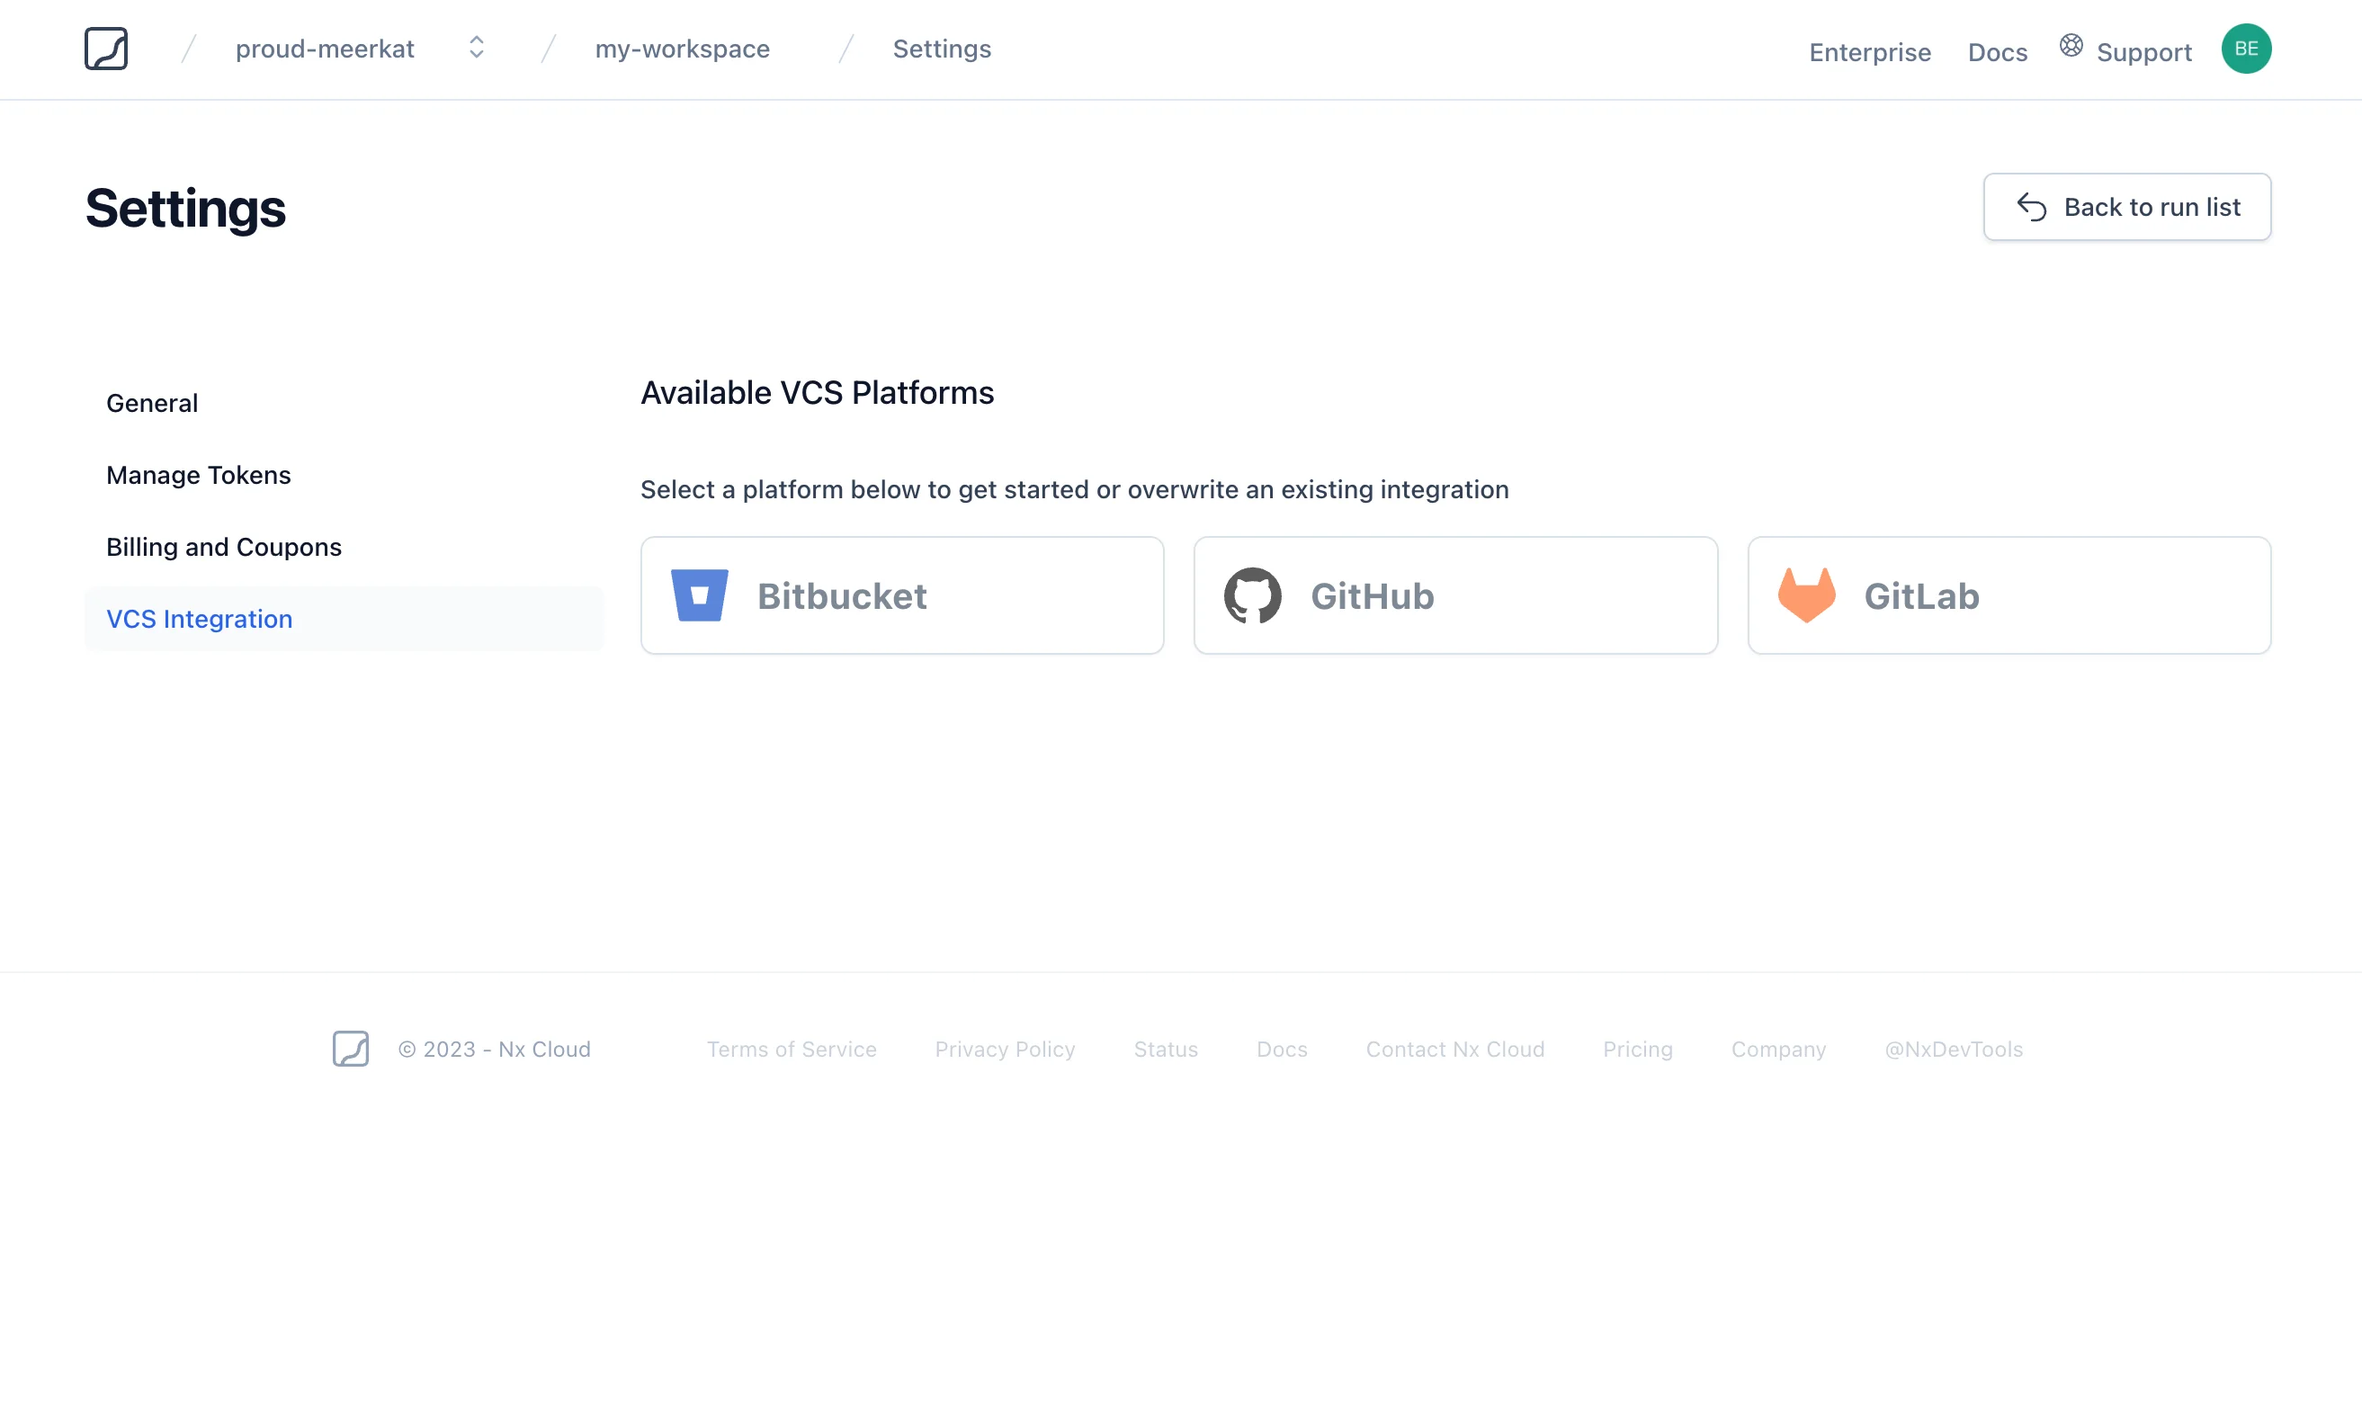
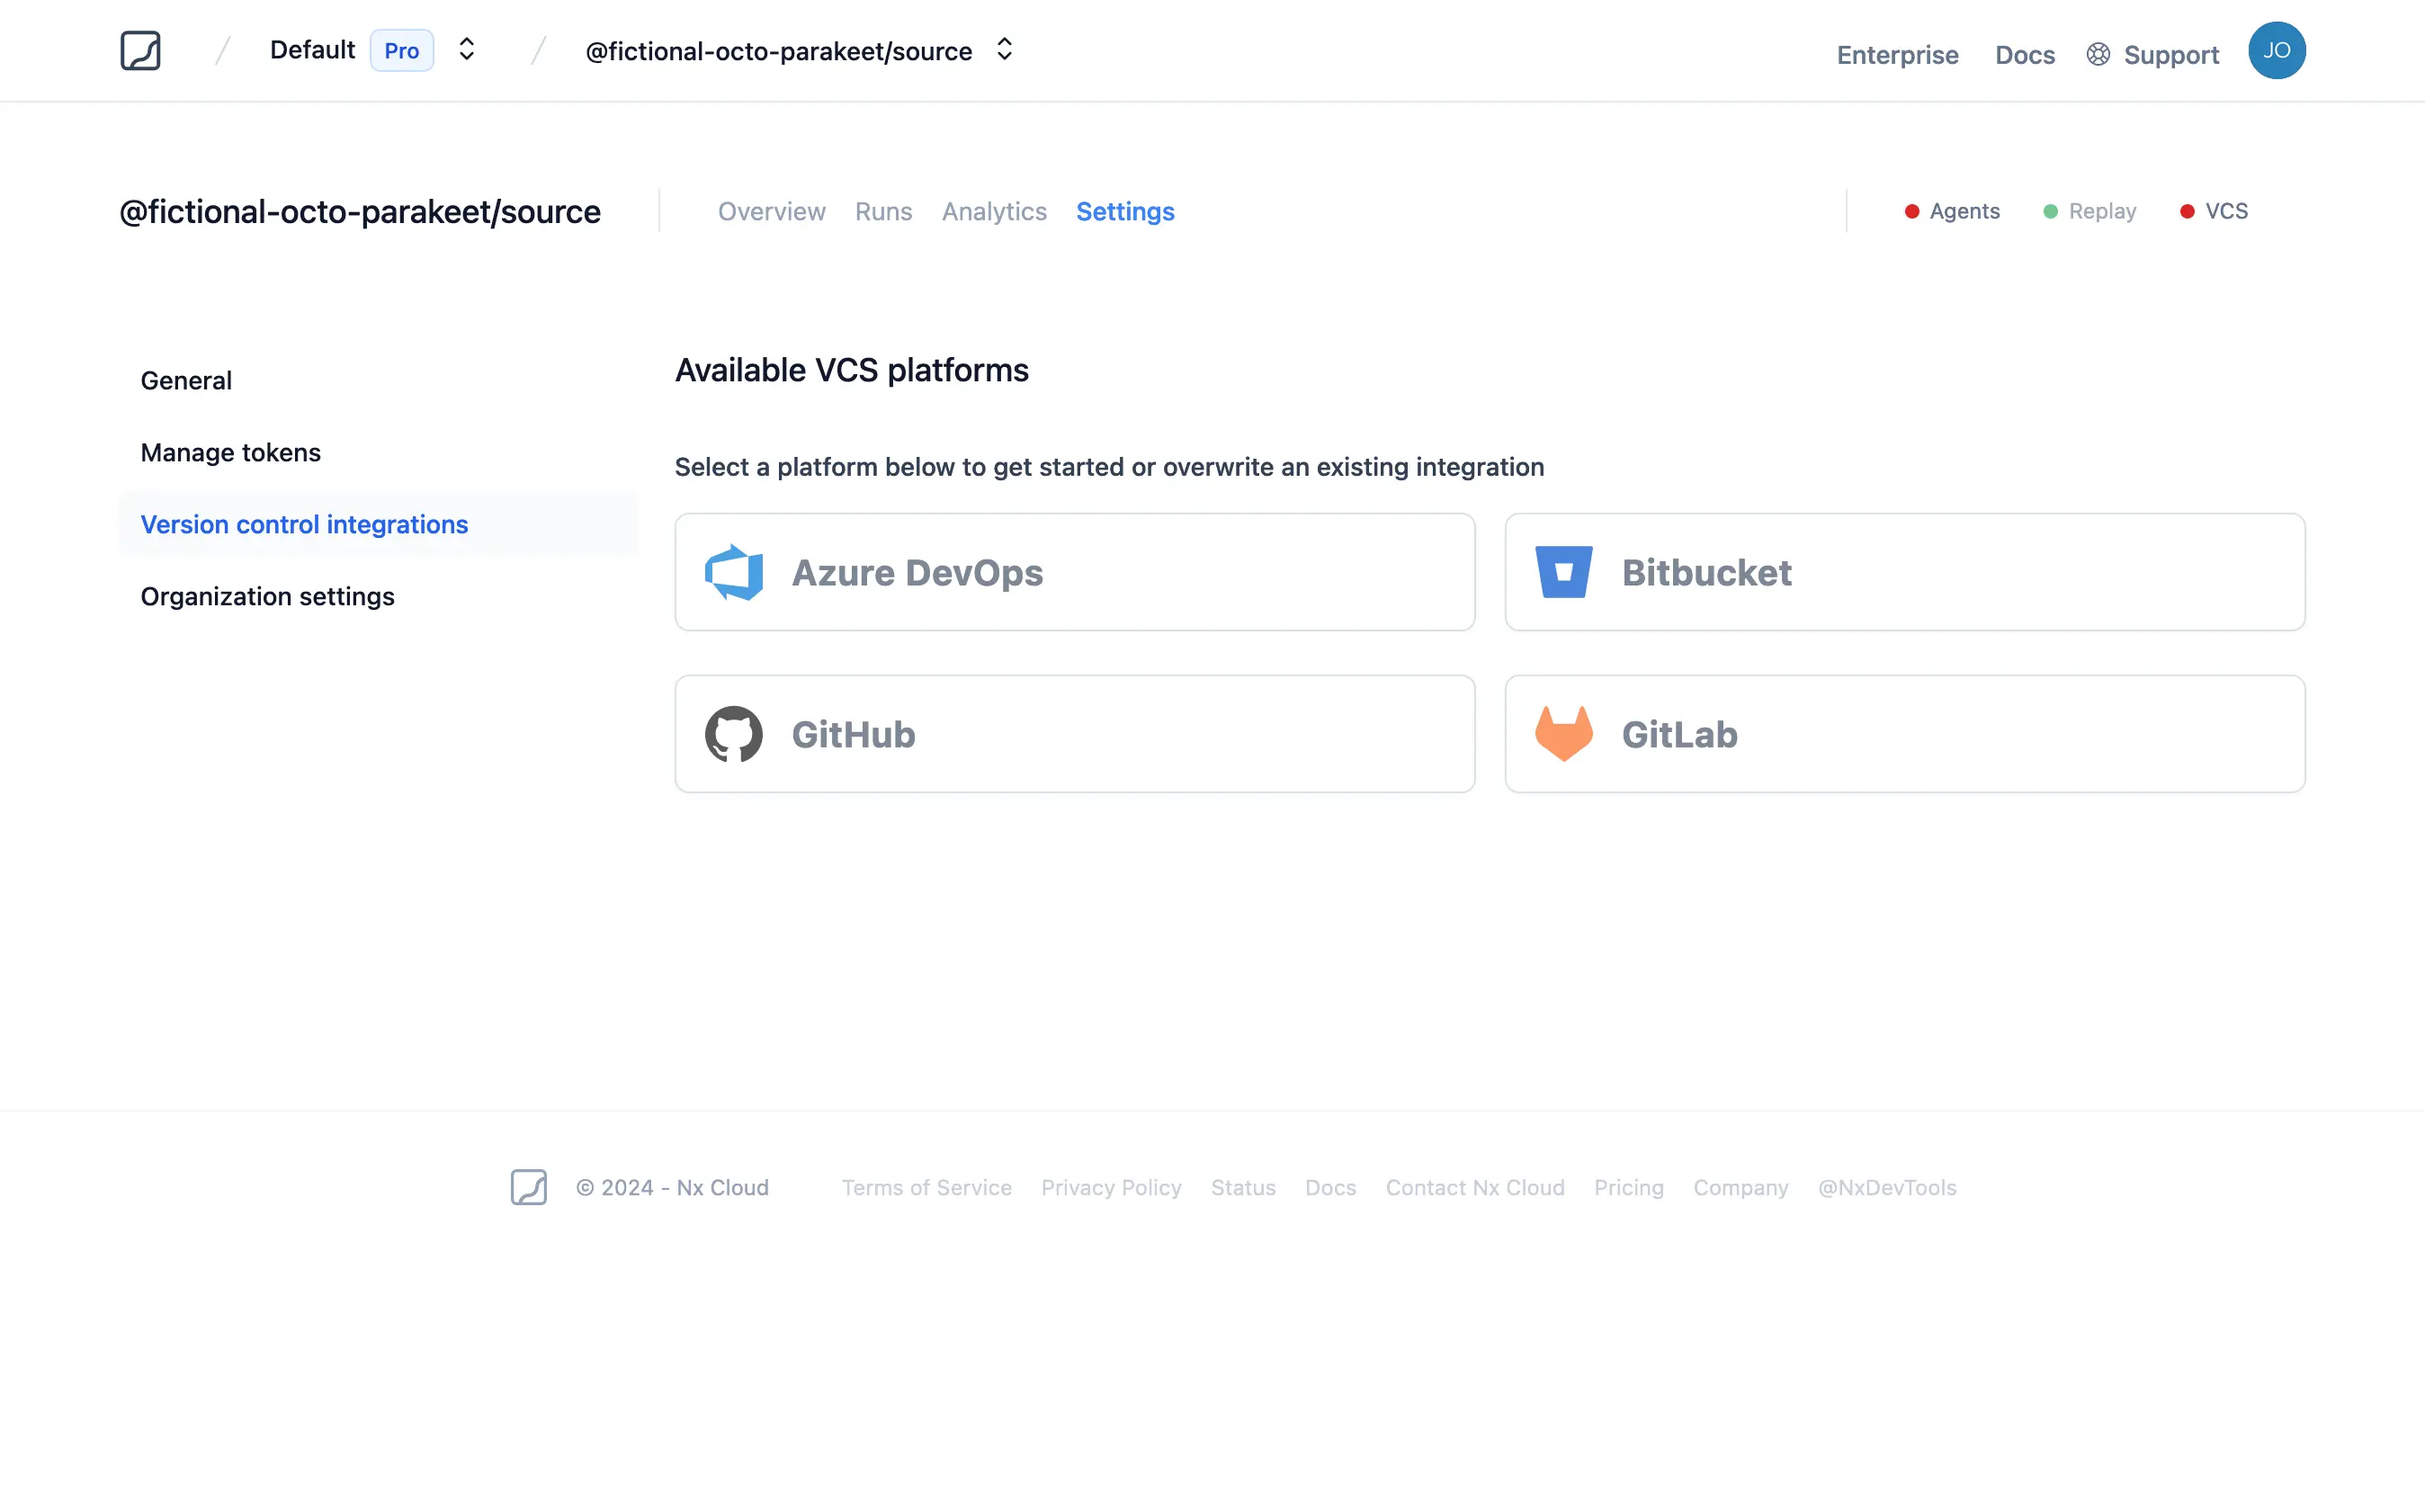
docs(nx-cloud): add basic Azure DevOps setup recipe

diff --git a/docs/nx-cloud/set-up/azure-devops.md b/docs/nx-cloud/set-up/azure-devops.md
@@ -1,0 +1,41 @@
+# Enable Azure DevOps PR Integration
+
+## Get Started
+
+The Nx Cloud + Azure Devops Integration lets you access the result of every run—with all its logs and build insights—straight from your PR.
+
+## Connecting Your Workspace
+
+![Access VCS Setup](/nx-cloud/set-up/access-vcs-setup.webp)
+
+Once on the VCS Integrations setup page, select "Azure DevOps". You will be prompted to enter the name of your organization and project.
+
+Identifying your organization and project can be done by looking at the URL of your project summary page.
+
+```
+https://dev.azure.com/[organization]/[project]
+```
+
+For example, the url `https://dev.azure.com/nrwl/my-monorepo-project` has an organization name of "nrwl", and a project name of "large-monorepo".
+
+You will also need to provide the id of your Azure Git repository, this can either be the internal GUID identifier, if known, or you can use the name of the repository from the URL you use to access it.
+
+For example, a URL of `https://dev.azure.com/nrwl/_git/large-monorepo` has the repository id of "large-monorepo".
+
+![Add Azure DevOps Repository](/nx-cloud/set-up/add-azure-devops-repository.webp)
+
+### Configuring Authentication
+
+#### Using a Personal Access Token
+
+To use a Personal Access Token for authentication, one must be generated with proper permissions. The minimum required permissions are shown in the screenshot below.
+
+![Work Items - Read, Code - Read, Build - Read & execute, Release - Read, write, & execute](/nx-cloud/set-up/minimal-ado-access-token.webp 'Minimum Azure DevOps Personal Access Token Permissions')
+
+Once this token is created paste the value and then click "Connect".
+
+This will verify that Nx Cloud can connect to your repo. Upon a successful test, your configuration is saved, and setup is complete.
+
+### Advanced Configuration
+
+If your company runs a self-hosted Azure DevOps installation, you may need to override the default URL that Nx Cloud uses to connect to the Azure Devops API. To do so, check the box labeled "Override Azure DevOps API URL" and enter the correct URL for your organization.

diff --git a/docs/nx-cloud/set-up/gitlab.md b/docs/nx-cloud/set-up/gitlab.md
@@ -10,7 +10,7 @@ The Nx Cloud GitLab Integration lets you access the result of every run—with a
 
 Once on the VCS Integrations setup page, select "GitLab". You will be prompted to enter your project's ID.
 
-![Locate Gitlab Project ID](/nx-cloud/set-up/find-gitlab-project-id.png)
+![Locate Gitlab Project ID](/nx-cloud/set-up/find-gitlab-project-id.webp)
 
 To locate the ID for your project, visit the home page of your repository on GitLab. The value can be found underneath the name of your project, and has a clickable button to copy to your clipboard.
 
@@ -22,7 +22,7 @@ To locate the ID for your project, visit the home page of your repository on Git
 
 To use a Personal Access Token for authentication, one must be generated with proper permissions. The minimum required permissions are shown in the screenshot below.
 
-![Minimum GitLab Personal Access Token Permissions](/nx-cloud/set-up/minimal-gitlab-access-token.png)
+![Minimum GitLab Personal Access Token Permissions](/nx-cloud/set-up/minimal-gitlab-access-token.webp)
 
 Once this token is created, select the radio button for providing a personal access token, paste the value, and then click "Connect".
 

diff --git a/docs/shared/features/distribute-task-execution.md b/docs/shared/features/distribute-task-execution.md
@@ -37,7 +37,7 @@ For a more thorough explanation of how Nx Agents optimizes your CI pipeline, rea
 
 To enable task distribution with Nx Agents, there are two requirements:
 
-1. Enable version control system integration. The integrations currently available are [GitHub](/ci/recipes/source-control-integration/github), [GitLab](/ci/recipes/source-control-integration/gitlab) and [Bitbucket](/ci/recipes/source-control-integration/bitbucket-cloud). These integrations can be enabled from your [Nx Cloud dashboard](https://nx.app).
+1. Enable version control system integration. The integrations currently available are [GitHub](/ci/recipes/source-control-integration/github), [GitLab](/ci/recipes/source-control-integration/gitlab), [Bitbucket](/ci/recipes/source-control-integration/bitbucket-cloud) and [Azure DevOps](/ci/recipes/source-control-integration/azure-devops). These integrations can be enabled from your [Nx Cloud dashboard](https://nx.app).
 2. Add a single line to your CI pipeline configuration.
 
 Add the `start-ci-run` command to your CI pipeline configuration after checking out the repository and before installing `node_modules`:

diff --git a/docs/nx-cloud/set-up/github.md b/docs/nx-cloud/set-up/github.md
@@ -31,7 +31,7 @@ Check the "_CI Platform Considerations_" section below and if there are no addit
 
 To use a Personal Access Token for authentication, one must be generated with proper permissions. The minimum required permissions are shown in the screenshot below.
 
-![Minimum GitHub Personal Access Token Permissions](/nx-cloud/set-up/minimal-github-access-token.png)
+![Minimum GitHub Personal Access Token Permissions](/nx-cloud/set-up/minimal-github-access-token.webp)
 
 Once this token is created, select the radio button for providing a personal access token, paste the value, and then click "Connect". This will verify that Nx Cloud can connect to your repo. Upon a successful test, your configuration is saved. Check the "_CI Platform Considerations_" section below, and if there are no additional instructions for your platform of choice, setup is complete.
 

diff --git a/docs/nx-cloud/set-up/record-commands.md b/docs/nx-cloud/set-up/record-commands.md
@@ -10,7 +10,7 @@ To record a command with Nx Cloud:
 2. Prefix your command with `npx nx-cloud record --`, or the appropriate execute command of your package manager. The `--` is optional but makes it easier to read what portion of the command will be recorded. (example: npx nx-cloud record -- echo "hello world")
 3. Run the command! Nx Cloud will record output and status codes, and generate a link for you to view your output on so you can easily view or share the result. Make sure you run this command from your workspace root or one of its subdirectories so Nx Cloud can properly locate configuration information.
 
-![npx nx-cloud record -- echo "hello world"](/nx-cloud/set-up/record-hello-world.png)
+![npx nx-cloud record -- echo "hello world"](/nx-cloud/set-up/record-hello-world.webp)
 
 ## Locating Command Output in Nx Cloud
 

diff --git a/docs/shared/reference/sitemap.md b/docs/shared/reference/sitemap.md
@@ -296,6 +296,7 @@
       - [Enable GitHub PR Integration](/ci/recipes/source-control-integration/github)
       - [Enable Bitbucket Cloud PR Integration](/ci/recipes/source-control-integration/bitbucket-cloud)
       - [Enable GitLab MR Integration](/ci/recipes/source-control-integration/gitlab)
+      - [Enable Azure DevOps PR Integration](/ci/recipes/source-control-integration/azure-devops)
     - [Enterprise](/ci/recipes/enterprise)
       - [On-Premise](/ci/recipes/enterprise/on-premise)
         - [Authenticate with a Single Admin](/ci/recipes/enterprise/on-premise/auth-single-admin)
